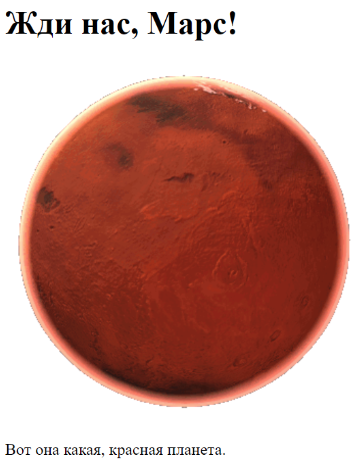
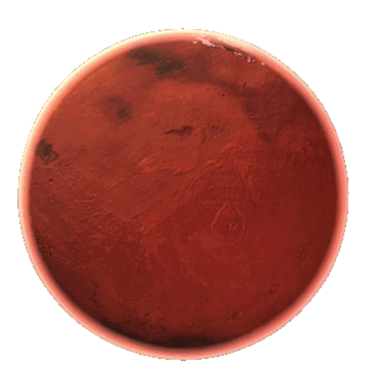
2 ы

diff --git a/main.py b/main.py
@@ -20,8 +20,10 @@ def promotion():
 
 @app.route('/image_mars')
 def image_mars():
-    return f'''<img src="{url_for('static', filename='img/image_mars.png')}" 
-           alt="здесь должна была быть картинка, но не нашлась">'''
+    return f'''Жди нас, Марс!</br>
+    <img src="{url_for('static', filename='img/mars_photo.png')}" 
+           alt="здесь должна была быть картинка, но не нашлась"></br>
+    Красная плонета'''
 
 
 
